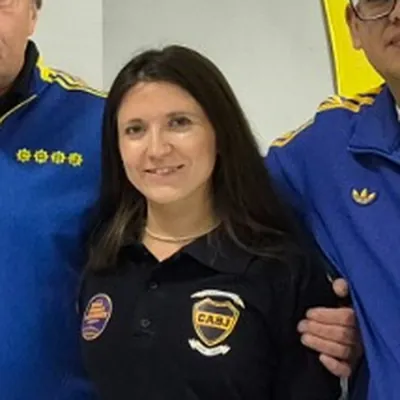
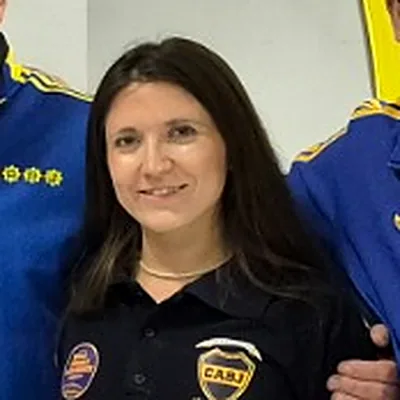
Autoridades: fotos de Viajes, Streaming y Socixs Peña; mejor recorte de la Presidenta
Claude-Session: https://claude.ai/code/session_01YABkQBe1sTupEKxuUd8Kos

diff --git a/wp-content/themes/pena-boca/page-institucional.php b/wp-content/themes/pena-boca/page-institucional.php
@@ -258,9 +258,9 @@ get_header(); ?>
                 array( 'cargo' => 'Tesorero',            'nombre' => 'Juan Marcos González',       'foto' => 'tesorero.webp' ),
             );
             $pboca_vocales = array(
-                array( 'cargo' => 'Viajes',        'nombre' => 'Facundo Mendoza',          'foto' => '' ),
-                array( 'cargo' => 'Streaming',     'nombre' => 'Lautaro Iriondo',          'foto' => '' ),
-                array( 'cargo' => 'Socixs Peña',   'nombre' => 'Pablo Zeki',               'foto' => '' ),
+                array( 'cargo' => 'Viajes',        'nombre' => 'Facundo Mendoza',          'foto' => 'viajes.webp' ),
+                array( 'cargo' => 'Streaming',     'nombre' => 'Lautaro Iriondo',          'foto' => 'streaming.webp' ),
+                array( 'cargo' => 'Socixs Peña',   'nombre' => 'Pablo Zeki',               'foto' => 'socixs-pena.webp' ),
                 array( 'cargo' => 'Socixs Boca',   'nombre' => 'María Victoria Rodríguez', 'foto' => 'socixs-boca.webp' ),
                 array( 'cargo' => 'Acción Social', 'nombre' => 'Aldana Jauge',             'foto' => 'accion-social.webp' ),
             );
